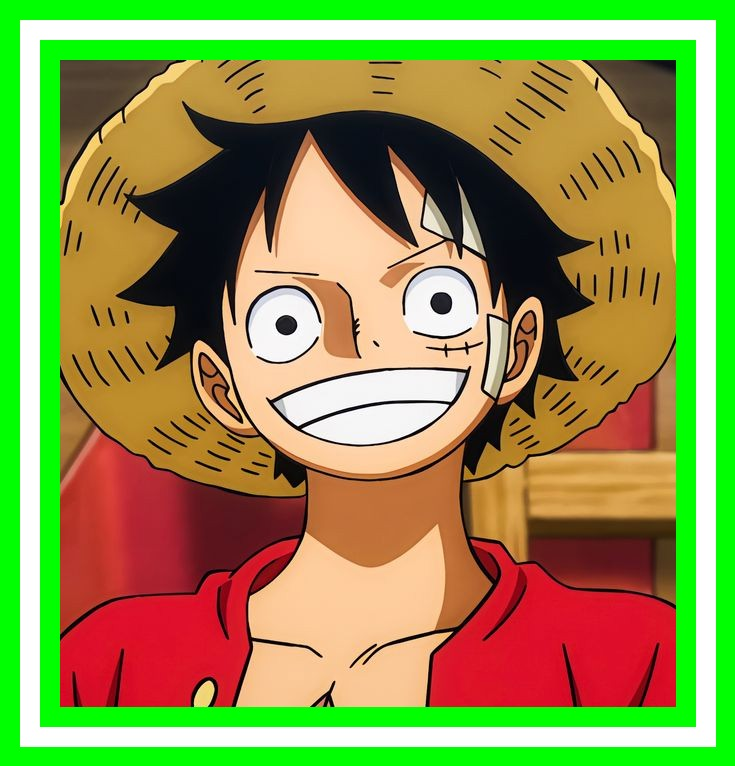
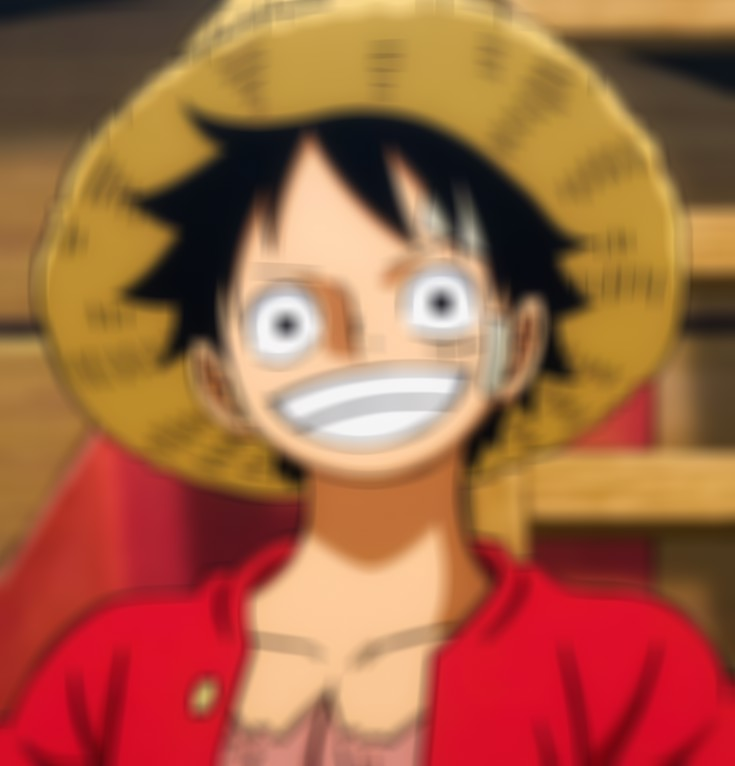
Add Filter 12, 16 and Change char to int

diff --git a/FilterProject/main.cpp b/FilterProject/main.cpp
@@ -477,32 +477,99 @@ void ReSizeFun(const string &NmImg){
     // cout << "Image Save Successfully 8 =====";
 }
 
+void Blur_Image(const string &NmImg){
+    // Image photo("luffy.jpg");
+    Image photo(NmImg);
+    Image BluredImage(photo.width, photo.height);
+    for (int i = 0; i < photo.width; i++)
+    {
+        for (int j = 0; j < photo.height; j++)
+        {
+            for (int k = 0; k < photo.channels; k++)
+            {
+                int avr = 0;
+                int repeat = 0;
+                for (int l = -9; l <= 9; l++)
+                {
+                    for (int m = -9; m <= 9; m++)
+                    {
+                        int x = i + l;
+                        int y = j + m;
+                        if (x >= 0 && y >= 0 && x < photo.width && y < photo.height)
+                        {
+                            avr += photo(x, y, k);
+                            repeat++;
+                        }
+                    }
+                }
+                BluredImage(i, j, k) = avr / repeat;
+            }
+        }
+    }
+    image = BluredImage;
+    getNwImg();
+    // BluredImage.saveImage("luffy012.jpg");
+    // cout << "Good Man";
+}
+
+void Infrared(const string &NmImg){
+    // Image photo("samurai.jpg");
+    Image photo(NmImg);
+    Image IR(photo.width, photo.height);
+    for (int i = 0; i < photo.width; i++)
+    {
+        for (int j = 0; j < photo.height; j++)
+        {
+            IR(i, j, 0) = 255;
+            IR(i, j, 1) = 255-photo(i, j, 0);
+            IR(i, j, 2) = 255-photo(i, j, 0);
+        }
+    }
+    // IR = photo;
+    // IR.saveImage("samurai001.jpg");
+    // cout << "Good Man";
+    image = IR;
+    getNwImg();
+}
+
 void Menu()
 {
     cout << "Menu:\n filter(1)::              filter(2):: Black&White_Image\n"
          << " filter(3)::              filter(4):: Frame_Image\n"
          << " filter(5)::              filter(6):: Rotate_Image\n"
-         << " filter(7)::              filter(8):: Resizing_Image\n";
+         << " filter(7)::              filter(8):: Resizing_Image\n"
+         << " filter(9)::              filter(10):: \n"
+         << " filter(11)::             filter(12):: Blur_Image\n"
+         << " filter(13)::             filter(14):: \n"
+         << " filter(15)::             filter(16):: Infrared_Image\n";
     cout << "Pls enter filter's number: ";
-    char fltrNum;
+    int fltrNum;
     cin >> fltrNum;
     switch (fltrNum)
     {
-    case '2':
+    case 2:
         setImg();
         BlckWht_filter(fileName);
         break;
-    case '4':
+    case 4:
         setImg();
         frame(fileName);
         break;
-    case '6':
+    case 6:
         setImg();
         Rtt_filter(fileName);
         break;
-    case '8':
+    case 8:
         setImg();
         ReSizeFun(fileName);
+        break;
+    case 12:
+        setImg();
+        Blur_Image(fileName);
+        break;
+    case 16:
+        setImg();
+        Infrared(fileName);
         break;
     default:
         cout << "Wrong filter number!" << endl;
